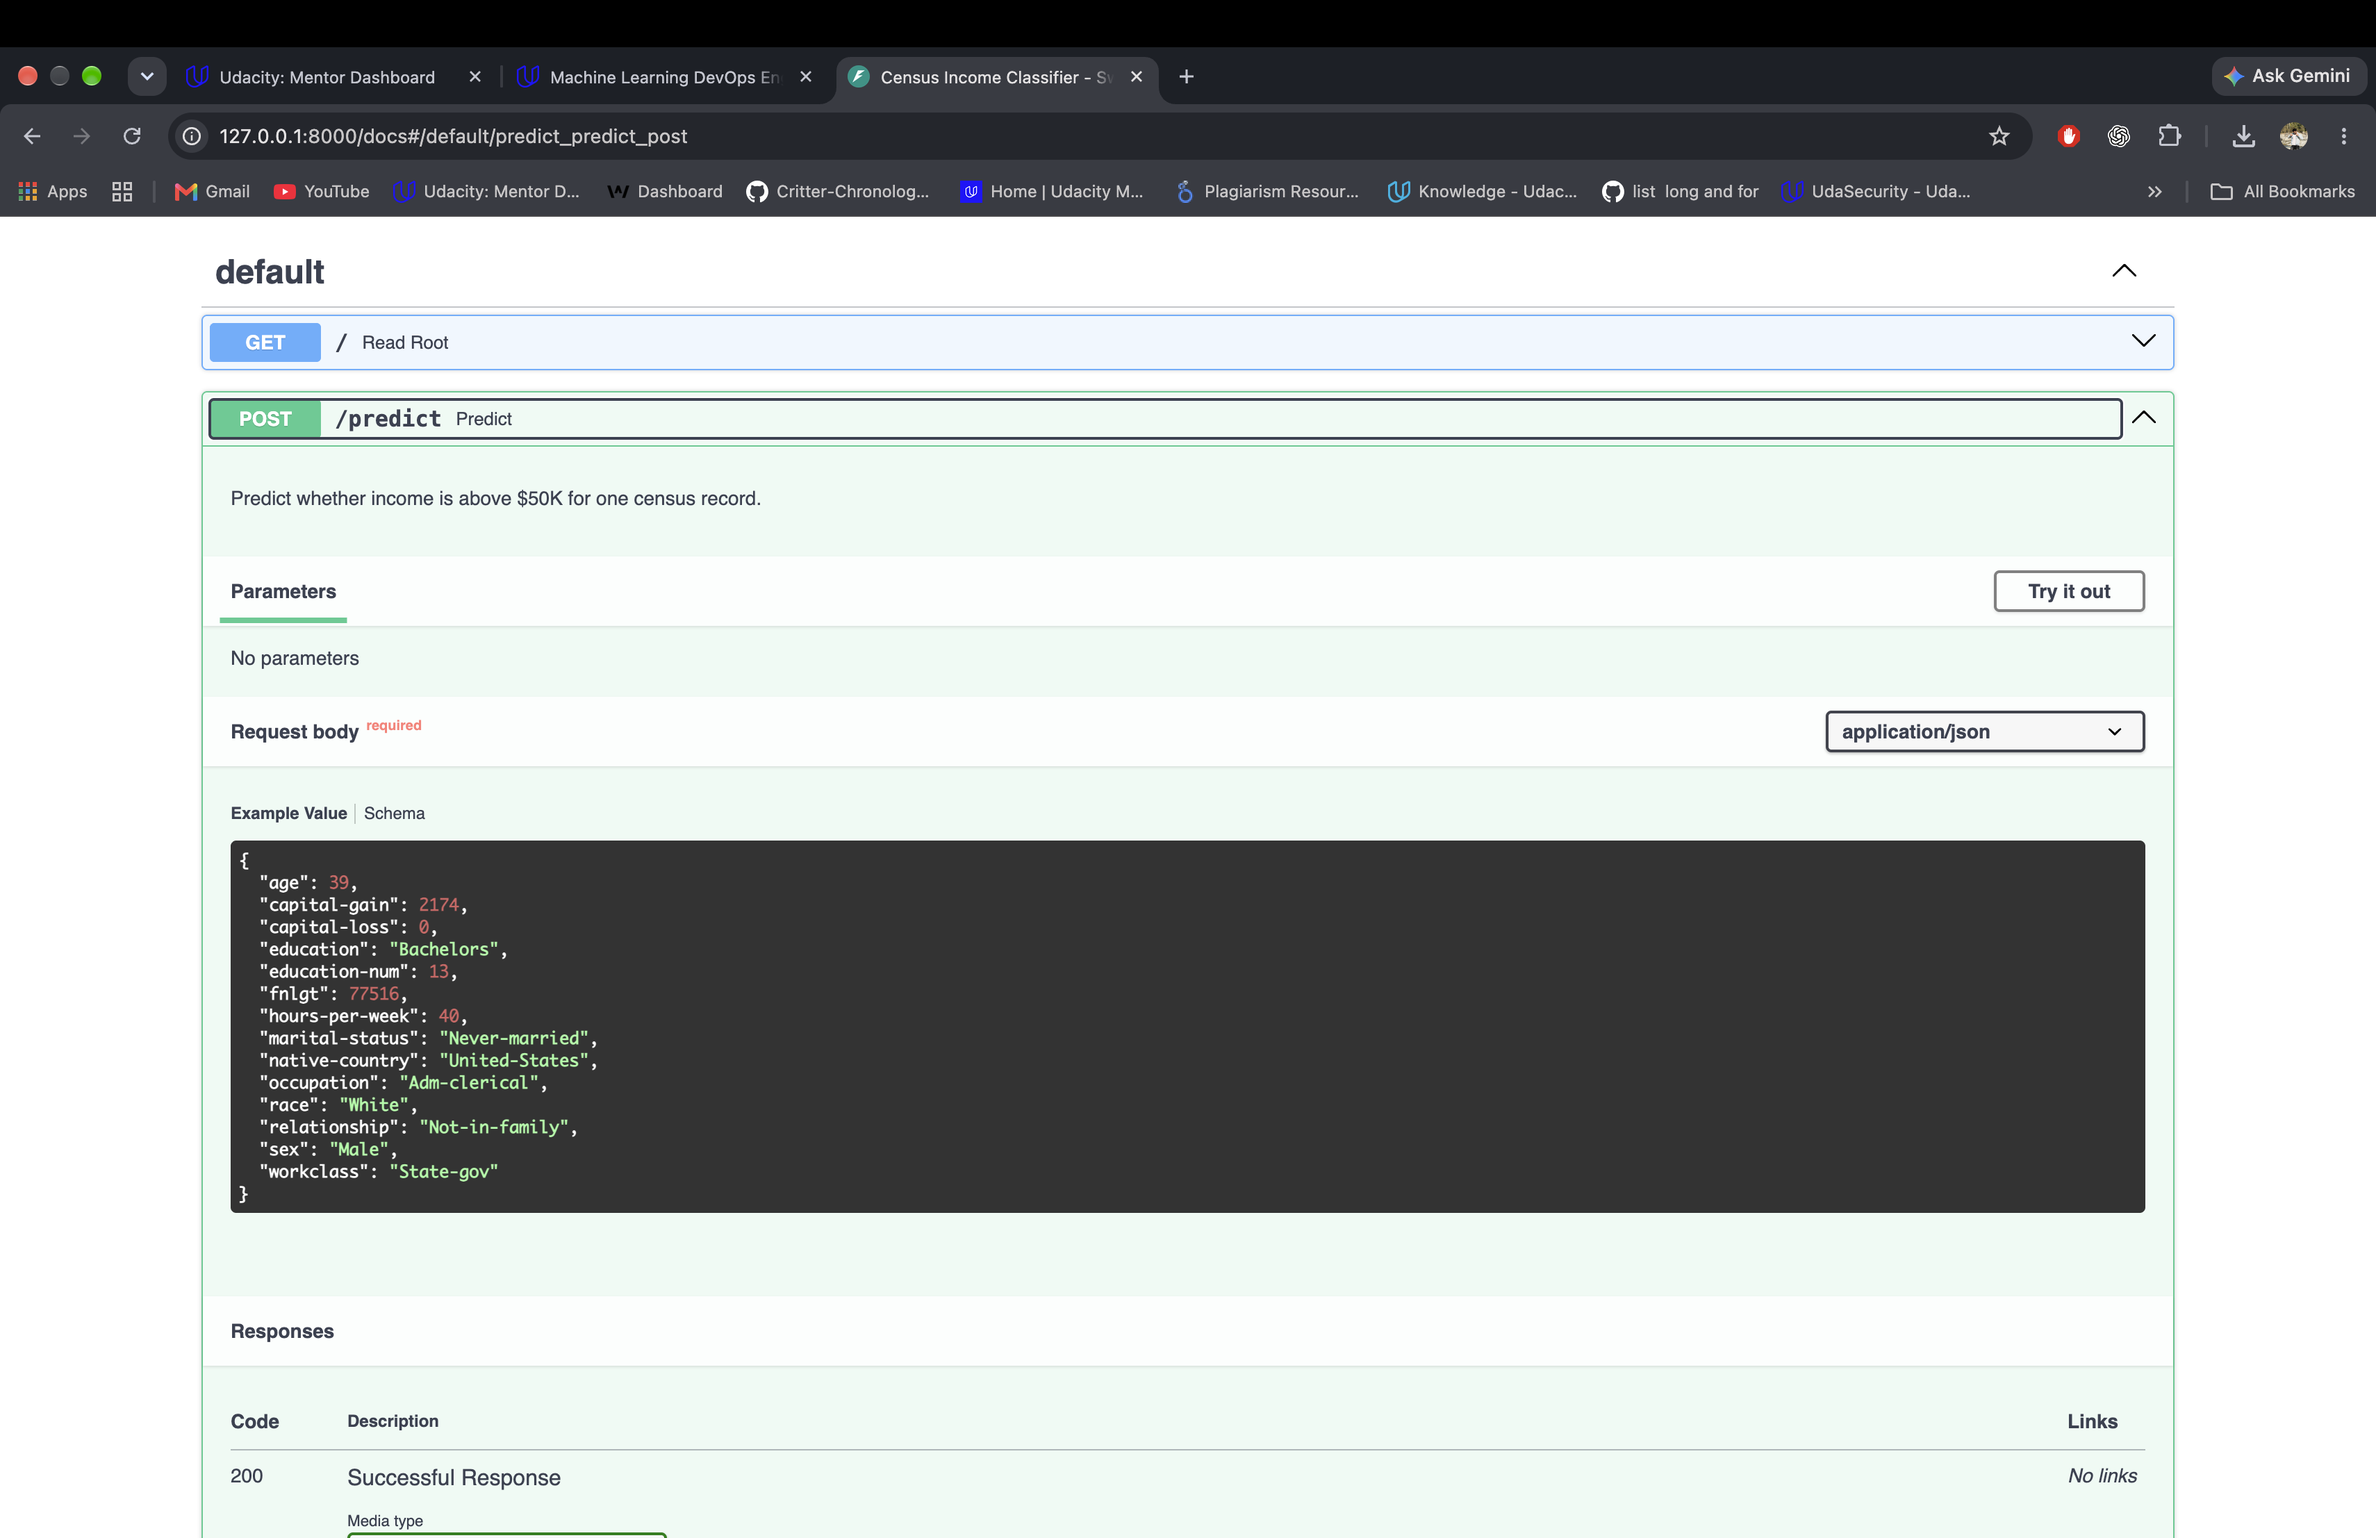
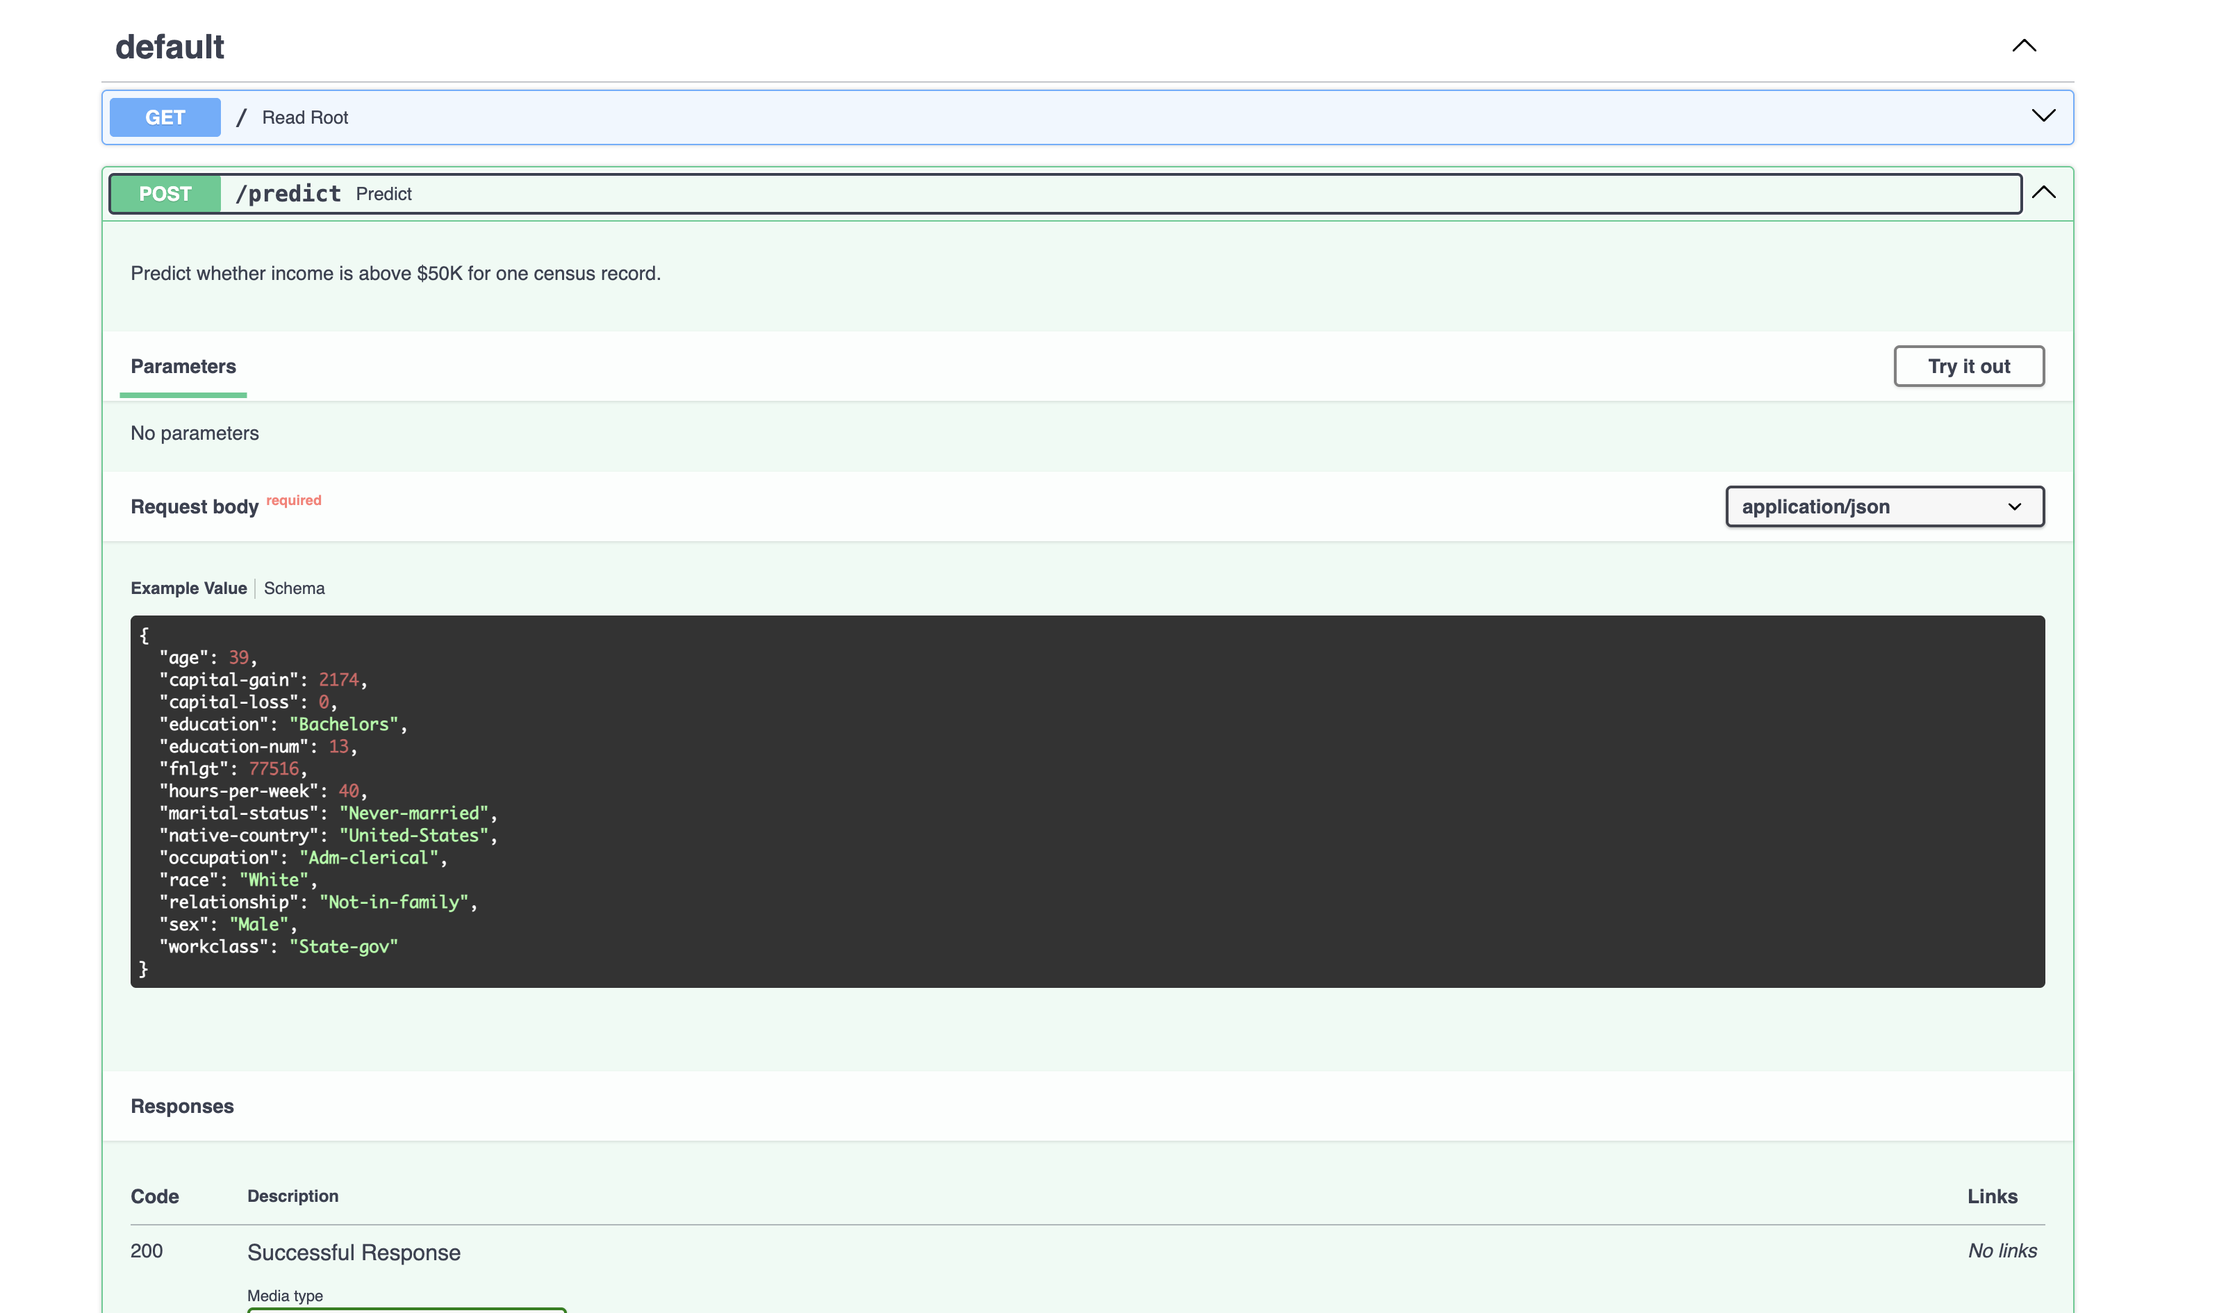
Align CI with Python 3.12 and tighten deployment checks

diff --git a/README.md b/README.md
@@ -1,10 +1,10 @@
 # Census Income Classification Project
 
-This project trains and serves a random forest model on the provided Census Income dataset. It includes slice metrics, a FastAPI inference endpoint, API and model tests, and GitHub Actions CI with an optional gated Render deploy hook.
+This project trains and serves a random forest model on the provided Census Income dataset. It includes slice metrics, a FastAPI inference endpoint, API and model tests, and GitHub Actions CI with a Render deployment hook that runs only after successful checks on `main`.
 
 ## Setup and run
 
-Use Python 3.13, matching `.github/workflows/ci.yml`.
+Use Python 3.12, matching the development environment and `.github/workflows/ci.yml`.
 
 ```bash
 python -m pip install -r requirements.txt
@@ -25,7 +25,7 @@ flake8 .
 python sanitycheck.py tests
 ```
 
-GitHub Actions trains the model, then runs pytest and flake8 on pushes and pull requests to `main` or `master`. The committed submission must still include the three fitted artifacts generated by the training command. The deployment job runs after successful checks on pushes to `main`; add the Render service's deploy hook as the repository secret `RENDER_DEPLOY_HOOK_URL` and connect the service to this repository/branch. Protect `main` and require the CI checks before merging. Do not commit deployment secrets.
+GitHub Actions trains the model, then runs pytest and flake8 on pushes and pull requests to `main` or `master`. The committed submission must still include the three fitted artifacts generated by the training command. The deployment job runs after successful checks on pushes to `main`. Add the Render service's deploy hook as the repository secret `RENDER_DEPLOY_HOOK_URL` and connect the service to this repository/branch. The deployment job reports an error when that secret is missing. Protect `main` and require the CI checks before merging. Do not commit deployment secrets.
 
 ## Evidence still to add after hosting
 
